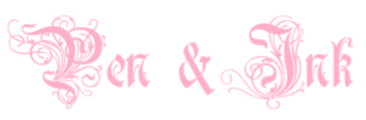
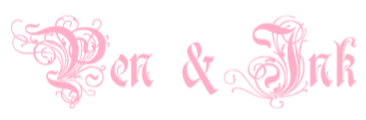
link styles change 1

Changed region(s): [[0.4809, 0.125, 0.9918, 0.9], [0.0, 0.125, 0.4208, 0.925]]

diff --git a/index.js b/index.js
@@ -11,6 +11,14 @@ document.addEventListener("DOMContentLoaded", () => {
     watercolor.className = "watercolor";
     main.appendChild(watercolor);
 
+    watercolor.addEventListener("mouseover", () => {
+        watercolor.style.backgroundImage = "url(./resources/watercolor1.png)";
+    })
+
+    watercolor.addEventListener("mouseleave", () => {
+        watercolor.style.backgroundImage = "url(./resources/watercolor.png)";
+    })
+
     watercolor.addEventListener("click", () => {
         window.scrollTo(0, 0);
         h1.style.backgroundImage = "url(./resources/watercolor.png)";
@@ -30,6 +38,14 @@ document.addEventListener("DOMContentLoaded", () => {
     const penAndInk = document.createElement("div");
     penAndInk.className = "penAndInk";
     main.appendChild(penAndInk);
+
+    penAndInk.addEventListener("mouseover", () => {
+        penAndInk.style.backgroundImage = "url(./resources/pen&ink1.png)";
+    })
+
+    penAndInk.addEventListener("mouseleave", () => {
+        penAndInk.style.backgroundImage = "url(./resources/pen&ink.png)";
+    })
 
     penAndInk.addEventListener("click", () => {
         window.scrollTo(0, 0);
@@ -51,6 +67,14 @@ document.addEventListener("DOMContentLoaded", () => {
     sculpture.className = "sculpture";
     main.appendChild(sculpture);
 
+    sculpture.addEventListener("mouseover", () => {
+        sculpture.style.backgroundImage = "url(./resources/sculpture1.png)";
+    })
+
+    sculpture.addEventListener("mouseleave", () => {
+        sculpture.style.backgroundImage = "url(./resources/sculpture.png)";
+    })
+
     sculpture.addEventListener("click", () => {
         window.scrollTo(0, 0);
         h1.style.backgroundImage = "url(./resources/sculpture.png)";
@@ -70,6 +94,14 @@ document.addEventListener("DOMContentLoaded", () => {
     const mixedMedia = document.createElement("div");
     mixedMedia.className = "mixedMedia";
     main.appendChild(mixedMedia);
+
+    mixedMedia.addEventListener("mouseover", () => {
+        mixedMedia.style.backgroundImage = "url(./resources/mixed_media1.png)";
+    })
+
+    mixedMedia.addEventListener("mouseleave", () => {
+        mixedMedia.style.backgroundImage = "url(./resources/mixed_media.png)";
+    })
 
     mixedMedia.addEventListener("click", () => {
         window.scrollTo(0, 0);
@@ -91,6 +123,14 @@ document.addEventListener("DOMContentLoaded", () => {
     digital.className = "digital";
     main.appendChild(digital);
 
+    digital.addEventListener("mouseover", () => {
+        digital.style.backgroundImage = "url(./resources/digital1.png)";
+    })
+
+    digital.addEventListener("mouseleave", () => {
+        digital.style.backgroundImage = "url(./resources/digital.png)";
+    })
+
     digital.addEventListener("click", () => {
         window.scrollTo(0, 0);
         h1.style.backgroundImage = "url(./resources/digital.png)";
@@ -110,6 +150,14 @@ document.addEventListener("DOMContentLoaded", () => {
     const about = document.createElement("div");
     about.className = "about";
     main.appendChild(about);
+
+    about.addEventListener("mouseover", () => {
+        about.style.backgroundImage = "url(./resources/about1.png)";
+    })
+
+    about.addEventListener("mouseleave", () => {
+        about.style.backgroundImage = "url(./resources/about.png)";
+    })
 
     about.addEventListener("click", () => {
         window.scrollTo(0, 0);
